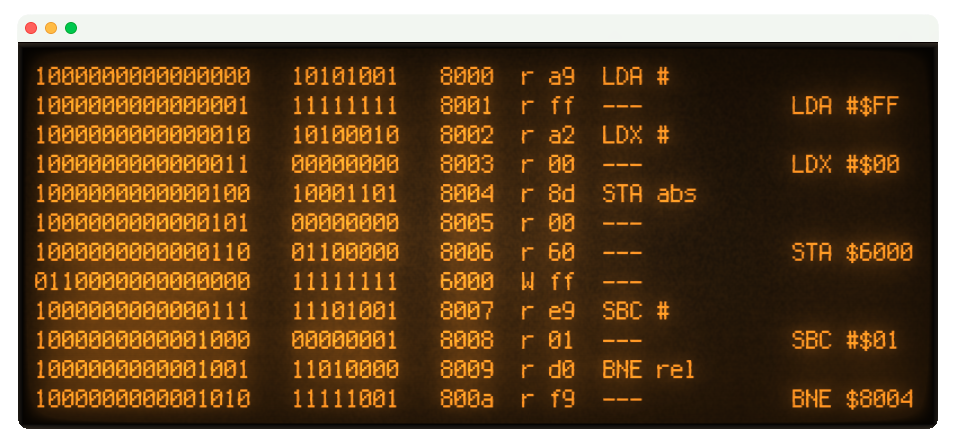
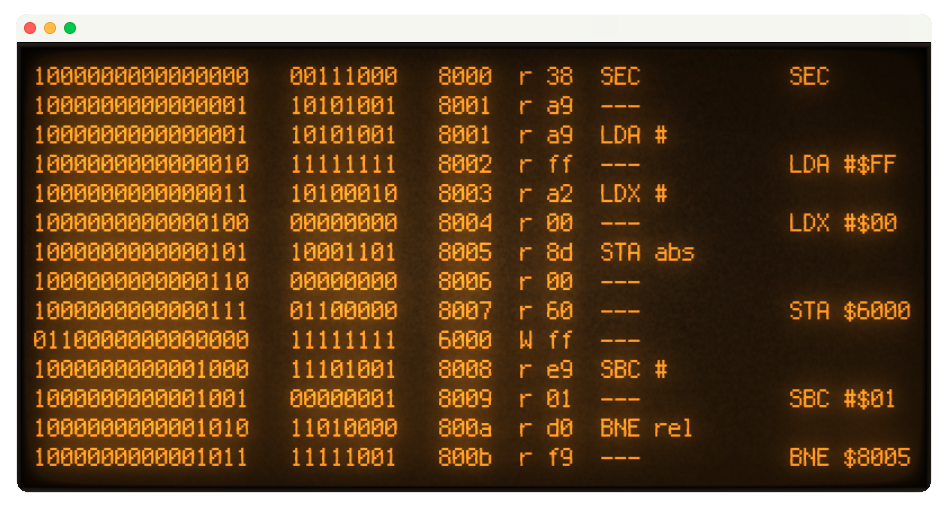
Fix example code; update sample output to match

diff --git a/README.md b/README.md
@@ -11,10 +11,13 @@ The output above is the first few clock steps (after the 6502's seven-cycle rese
 ````
 	.org $8000
 
-reset:
+init:
+	sec	
 
+reset:
 	lda #$ff
 	ldx #$00
+
 loop:
 	sta $6000
 	sbc #$01
@@ -26,7 +29,7 @@ loop:
 	.word reset
 	.org $fffa
 	.word
-	.word reset
+	.word init
 	.word
 ````
 
